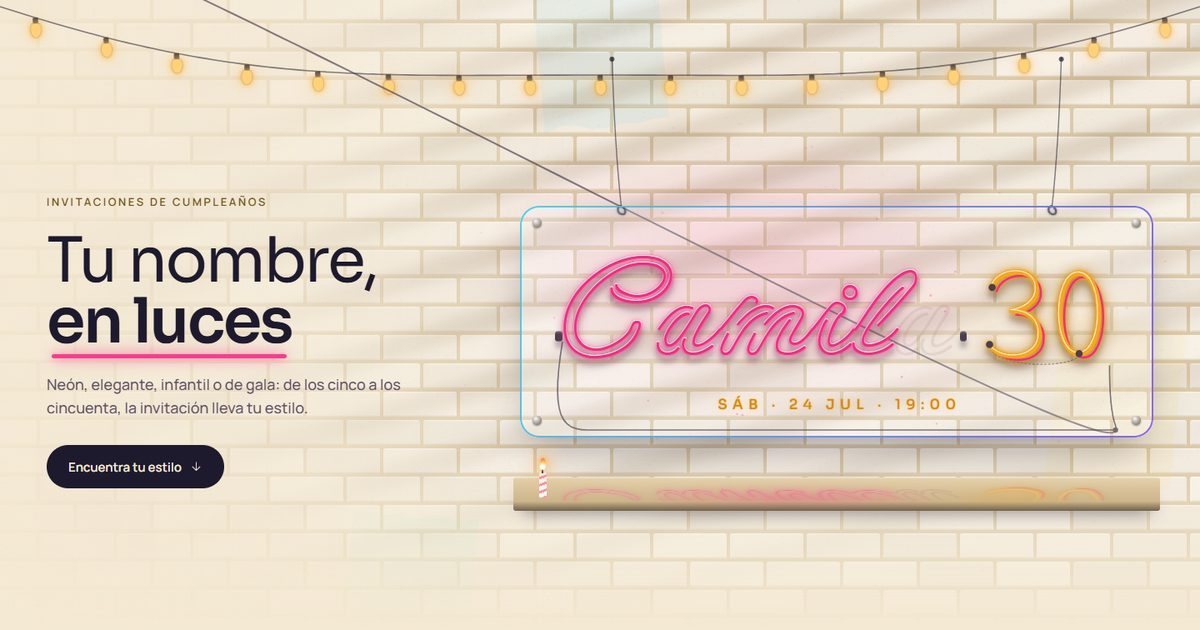
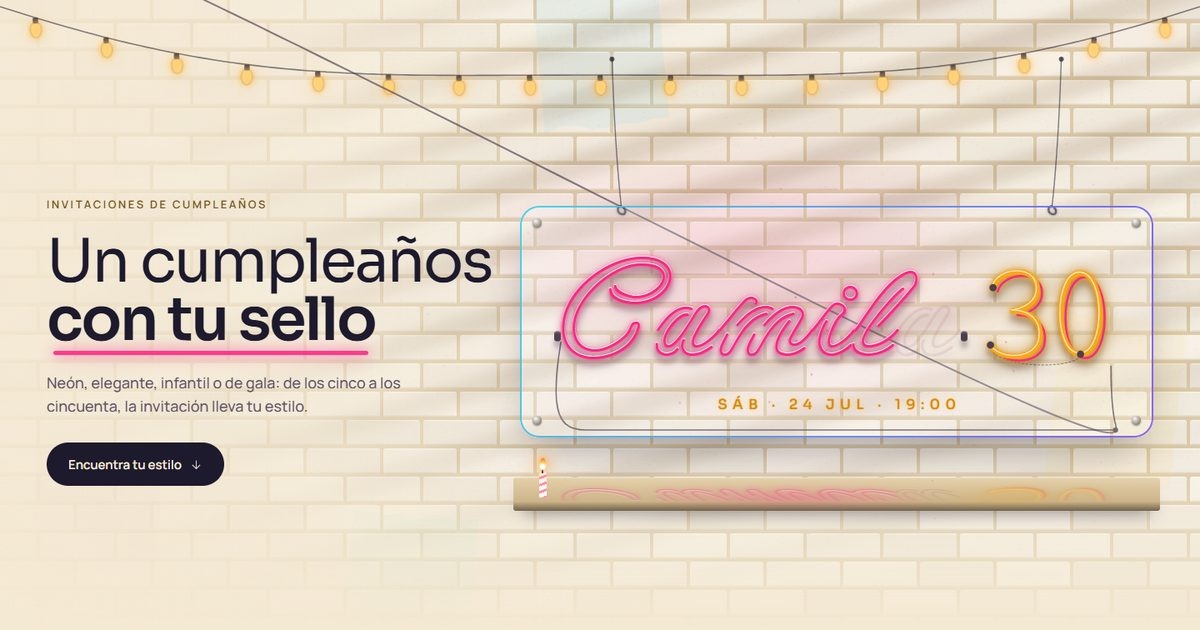
Corrige el encuadre de imágenes y cambia el título de Cumpleaños
Cada paso de «Cómo funciona» muestra lo que dice su texto, las tarjetas de
trabajos conservan la imagen completa y el hero dice «Un cumpleaños con tu sello».

diff --git a/src/site/styles/simple.css b/src/site/styles/simple.css
@@ -256,7 +256,7 @@ body[data-scene] .occasion-page .occasion-path{display:none}
 .scene .season-bridge:hover,.scene .season-bridge:focus-visible{border-color:var(--accent)}
 .scene .season-bridge:active{transform:scale(.99)}
 .scene .journey-shot{padding:0;overflow:hidden}
-.scene .journey-shot img{width:100%;height:100%;object-fit:cover;object-position:top}
+.scene .journey-shot img{width:100%;height:100%;object-fit:cover}
 .scene .inv-actions a{white-space:nowrap}
 .scene .client-case{padding:0;border:0;background:none}
 .scene .invite-journey{margin-top:0}
@@ -376,3 +376,21 @@ body[data-birthday-sign] .birthday-sign-root :is(.lead,.lead-m){color:var(--ink)
 .scene .studio-heading-copy{max-width:820px}
 .scene .studio-heading-copy>p:first-child{max-width:560px}
 @media(min-width:701px){.scene .seasonal-demo-grid{grid-template-columns:repeat(2,minmax(0,380px));justify-content:start;gap:32px}}
+@media(min-width:901px){html body[data-birthday-sign] .birthday-sign-root #bs-titulo{white-space:nowrap;font-size:clamp(46px,5vw,72px)!important}}
+
+/* «Cómo funciona»: each step shows the part of the screen its caption talks about. */
+html body .scene .journey-shot{height:auto;aspect-ratio:5/6;place-items:stretch}
+html body .scene .journey-card:nth-child(1) .journey-shot img{object-position:50% 45%}
+html body .scene .journey-card:nth-child(2) .journey-shot img{object-position:50% 83%}
+html body .scene .journey-card:nth-child(3) .journey-shot img{object-position:50% 100%}
+html body .scene .journey-card:nth-child(4) .journey-shot img{object-position:55% 0}
+html body .scene .journey-shot.journey-dashboard img,html body .scene .journey-card .journey-shot img{height:100%;min-height:100%;width:100%;max-width:none;object-fit:cover}
+/* Work cards keep the whole 16:9 artwork, so no headline is cut. */
+html body [data-view="estudio"] .studio-work .studio-work-image{position:relative;inset:auto;aspect-ratio:16/9;height:auto;border-radius:var(--radius-card)}
+html body [data-view="estudio"] .studio-work .studio-work-image img{object-position:50% 30%}
+html body [data-view="estudio"] .studio-work[data-studio-active] .studio-work-caption strong{font-size:20px;animation:none}
+.signature-note{float:right;margin-top:36px}
+@media(max-width:700px){.signature-note{float:none;margin-top:12px}}
+.occasion-stage:has(.wedding-stage[data-step=panel]) .wedding-credit{visibility:hidden}
+html body .scene .journey-shot{display:block;position:relative}
+html body .scene .journey-card .journey-shot img{position:absolute;inset:0}

diff --git a/cumpleanos.html b/cumpleanos.html
@@ -30,7 +30,7 @@
   <div class="hero-copy">
 
     <div class="kicker"><p class="eyebrow">INVITACIONES DE CUMPLEAÑOS</p><button class="pause business-motion-control" data-business-toggle id="bs-pause" type="button" aria-pressed="false" aria-label="Pausar movimiento"><svg class="pause-ico" viewBox="0 0 16 16" aria-hidden="true"><path class="ico-p" d="M5 3.5v9M11 3.5v9"/><path class="ico-r" d="M5 3.2 12.5 8 5 12.8Z"/></svg><span class="pause-txt" data-motion-label>Pausar movimiento</span></button></div>
-    <h1 id="bs-titulo">Tu nombre,<br><em>en luces</em></h1>
+    <h1 id="bs-titulo">Un cumpleaños<br><em>con tu sello</em></h1>
     <p class="lead-m">Elige un estilo y míralo encendido.</p>
     <p class="lead">Neón, elegante, infantil o de gala: de los cinco a los cincuenta, la invitación lleva tu estilo.</p>
     <div class="actions">

diff --git a/AGENTS.md b/AGENTS.md
@@ -25,7 +25,7 @@ Preferencias explícitas del usuario, aplicables a cambios futuros:
 - La bienvenida del panel de muestra usa la misma fotografía de portada de Bodas (wedding-v2), grande en la esquina derecha y degradada hacia el fondo crema. Conservar ese tratamiento y sus adaptaciones móviles.
 - La sección que presenta el panel en Bodas muestra una captura real del dashboard, dentro de un marco discreto y pulsable. Evitar volver a la tarjeta ornamental de confirmación. Las capturas vigentes en español e inglés están en artwork-source/wedding-dashboard-preview-v4; actualizar ambas si cambia de forma importante la interfaz.
 
-- El hero de Cumpleaños es «Tu nombre, en luces» (aprobado el 06/11/2026), con cinco estilos que cambian la página y tienen transición propia. Excepción aprobada por el usuario: Gala de XV puede usar violeta y lila, y Misión espacial azules, solo dentro de su estilo; Neón conserva la identidad actual. Maqueta de referencia: E:\Nordra Studio\Maquetas\cumpleanos-neon\index.html.
+- El hero de Cumpleaños es «Un cumpleaños con tu sello» (título elegido por el usuario el 08/11/2026, sobre el letrero aprobado el 06/11/2026), con cinco estilos que cambian la página y tienen transición propia. Excepción aprobada por el usuario: Gala de XV puede usar violeta y lila, y Misión espacial azules, solo dentro de su estilo; Neón conserva la identidad actual. Maqueta de referencia: E:\Nordra Studio\Maquetas\cumpleanos-neon\index.html.
 - Cumpleaños tiene identidad propia, Noche de cumple. Usa medianoche y ciruela con dorado champaña, títulos en Sora y globos de foil dorado como motivo. Evita las auroras azules o violetas. Sirve para cumpleaños de adultos, infantiles, XV años y aniversarios. Originales y prompts en artwork-source/birthday-noche-v1.
 - La invitación de cumpleaños de muestra es La caja de regalo: una caja medianoche con lazo de satén dorado que se desata, de donde salen los globos 3D de la edad. El interior es una sola escena sobre la misma mesa, con el listón que une la etiqueta con la fecha, las polaroids, la tarjeta escrita a mano y el boleto con sellos de lacre para confirmar. Arte fotorrealista, textos concretos y configurables. El estándar de calidad son la posada y la Mansión de Medianoche.
 - La invitación de eventos de muestra es El gafete: un gafete holográfico con los tres anillos de Conexión 27 que cuelga de su cordón sobre una mesa de registro de piedra arena con luz de ventana. Al tocarlo gira y muestra el nombre del invitado. El interior es una sola escena sobre la misma mesa, con el cordón que une la tarjeta de registro, el programa de mano, las tarjetas de presentación y el acceso con pestañas troqueladas que dejan ver el QR. Arte fotorrealista, textos concretos y configurables.
